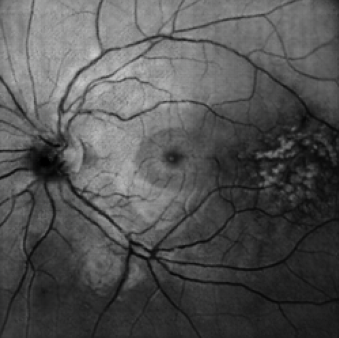
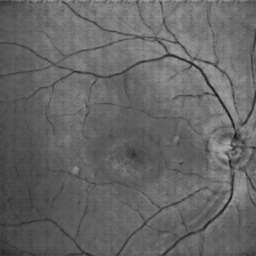
NC

diff --git a/evaluation/Step8_Figures.py b/evaluation/Step8_Figures.py
@@ -90,6 +90,16 @@ def held_out_examples():
     plt.close(figure)
 
 
+def readme_sample():
+    generator = load_generator(GENERATORS["CycleGAN"])
+    chosen, median = median_examples()
+    cf_image = Image.open(os.path.join(DATASET, chosen[0]["cf"])).convert("RGB")
+    cf_image.resize((256, 256), Image.BICUBIC).save(os.path.join(FIGURES_DIR, "sample_cf.png"))
+    fake = (translate(generator, cf_image) * 255).round().astype(np.uint8)
+    Image.fromarray(fake).save(os.path.join(FIGURES_DIR, "sample_faf.png"))
+    print(f"README sample: {chosen[0]['cf']} ({chosen[0]['disease']}, CycleGAN SSIM {float(chosen[0]['ssim']):.3f}, median {median:.3f})")
+
+
 def test_confusion_matrix():
     with open(os.path.join(RESULTS_DIR, "Step7_Classifier_TrainOnly.json")) as handle:
         result = json.load(handle)[CLASSIFIER_SOURCE]
@@ -114,6 +124,7 @@ def test_confusion_matrix():
 def main():
     os.makedirs(FIGURES_DIR, exist_ok=True)
     held_out_examples()
+    readme_sample()
     test_confusion_matrix()
     print(f"figures saved in {FIGURES_DIR}")
 

diff --git a/README.md b/README.md
@@ -32,20 +32,20 @@ This project asks whether a model can learn to produce the FAF view from the col
       <td><img src="images/sample_faf.png" width="250"/></td>
     </tr>
   </table>
-  <em>An AMD photo from the training set and the original CycleGAN's output for it</em>
+  <em>A held-out test photo (Stargardt disease) and the CycleGAN's output for it. The model never saw this patient; the pair is the one closest to its median score</em>
 </div>
 
 ---
 
 ## Pipeline
 
-```mermaid
-flowchart LR
-    A["Colour fundus photo"] --> B["CycleGAN generator G_AB\n(U-Net, CF → FAF)"]
-    B -- "Synthetic FAF\n(256×256)" --> C["ResNet-18\n(3 classes)"]
-    C --> D["Choroiditis / Normal / Scar"]
-    C --> E["Grad-CAM heatmap\n(where the classifier looked)"]
-```
+<div align="center">
+  <img src="images/block_diagram.png" width="800"/>
+  <br>
+  <em>Training (bottom left) and inference (top). The ResNet trains on synthetic FAFs made from labelled CF photos. In the app, a Grad-CAM heatmap shows where the classifier looked.</em>
+</div>
+
+<br>
 
 A low-cost capture device (3D-printed scope, 20D lens, LED and camera) was planned but never built. Every image in this project comes from the hospital datasets.
 
@@ -193,6 +193,14 @@ The notebooks are the original project notebooks, kept as they were run. Their n
 ## How It Works
 
 ### Stage 1: CycleGAN (unpaired CF → FAF)
+
+<div align="center">
+  <img src="images/cyclegan_architecture.png" width="600"/>
+  <br>
+  <em>Two generators (G_AB: CF → FAF, G_BA: FAF → CF) and two discriminators, trained with adversarial and cycle-consistency losses. The identity loss (marked *) was switched off.</em>
+</div>
+
+<br>
 
 | Component | Details |
 | --------- | ------- |
